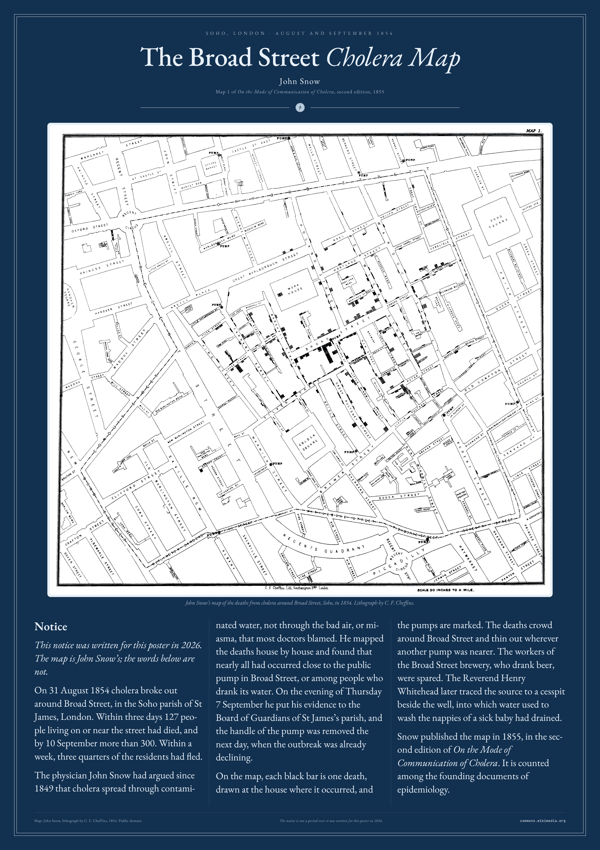
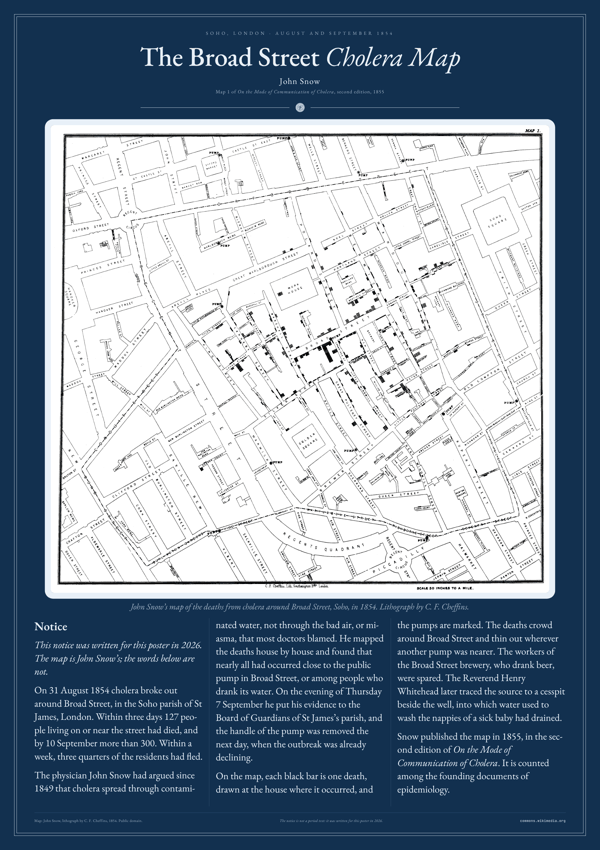
fix(engine): image captions follow the body size, in the hero too
The caption of the hero image had a fixed size of its own, while the
captions of images in the text follow the body. The hero block keeps
its fixed height, so fitting still only moves the text, but the image
inside it is now sized in CSS with container query units: it takes
the room that its caption, set like any other caption, leaves.

Only snow-cholera-map changes: same body sizes, a larger caption and
a slightly smaller map.

diff --git a/engine/template.html b/engine/template.html
@@ -97,10 +97,13 @@ figure.image figcaption{font-size:.85em;font-style:italic;color:var(--mute);marg
 [data-tone=dark] figure.plate img{box-shadow:0 0 0 .6em var(--ink);border-radius:.3em}
 [data-tone=dark] figure.invert img{filter:url(#on-dark-invert)}
 [data-tone=dark] figure.multiply img{filter:url(#on-dark-multiply)}
-/* layout: hero, the first image across the top of the page, at a size fixed in mm */
-.hero{flex:none;display:flex;align-items:center;justify-content:center;font-size:calc(11pt*var(--hs));margin-bottom:6mm}
-.hero figure.image{margin:0}
-.hero figure.image figcaption{font-size:1em;margin-top:4mm}
+/* layout: hero, the first image across the top of the page. The block has a fixed height and
+   the image takes the room its caption leaves; the padding makes room for the plate */
+.hero{flex:none;margin-bottom:6mm}
+.hero figure.image{margin:0;height:100%;display:flex;flex-direction:column}
+.hero .imgbox{flex:1;min-height:0;container-type:size;padding:.6em;display:flex;align-items:center;justify-content:center}
+.hero .imgbox img{width:min(100cqw,100cqh*var(--ar));height:auto}
+.hero figure.image figcaption{margin-top:.3em}
 .item .lbl{color:var(--acc);font-weight:600}
 .item.sub{margin-left:2.2em;font-size:.92em}.item.sub .lbl{font-weight:400}
 code{font-family:'JetBrains Mono',monospace;font-size:.85em}

diff --git a/papers/snow-cholera-map/style.css b/papers/snow-cholera-map/style.css
@@ -1,4 +1,2 @@
 /* A short notice in large type reads better ragged than justified */
 main{text-align:left}
-/* The caption keeps a fixed size, like the whole hero, only larger than the default */
-.hero figure.image figcaption{font-size:1.45em}

diff --git a/engine/build.py b/engine/build.py
@@ -19,7 +19,6 @@ import markdown
 from themes import THEMES, FORMATS, colour, dark
 
 DESIGN_W = 594  # every poster is laid out 594 mm wide, then scaled to the target format
-SIDE = 34      # left and right margin of the page in the template, mm
 MM = 72 / 25.4  # PDF points per mm
 PX = 96 / 25.4  # CSS pixels per mm
 # Without this flag Chromium lays text out with the hinting of the local fontconfig setup,
@@ -110,19 +109,15 @@ def substitute(tpl, values):
     """Fills every {{KEY}} in one pass, so text inserted in the page is never read as a placeholder."""
     return re.sub(r"\{\{(\w+)\}\}", lambda k: str(values[k.group(1)]), tpl)
 
-def hero_html(img, height, share, hs):
-    """The hero image, scaled to fill its share of the page height without passing the margins.
-    Its size is fixed in mm, so that fitting the body size only moves the text."""
-    box = height * share / 100
-    pad = 4 * hs                          # room for the plate drawn around the image on dark themes
-    caption = 15 * hs if img["caption"] else 0  # up to two lines of caption
+def hero_html(img, height, share):
+    """The hero block: a fixed share of the page height, so that fitting the body size only moves
+    the text. Inside it, the image takes the room that its caption leaves (.hero in the template)."""
     if not img["w"]:
         raise BuildError("the hero image must state its size (an SVG needs a viewBox)")
-    k = min((DESIGN_W - 2 * SIDE - 2 * pad) / img["w"], (box - caption - 2 * pad) / img["h"])
     cap = f'<figcaption>{img["caption"]}</figcaption>' if img["caption"] else ""
-    return (f'<div class="hero" style="height:{box:.2f}mm"><figure class="image {img["mode"]}">'
-            f'<img src="{img["src"]}" alt="" style="width:{img["w"] * k:.2f}mm;height:{img["h"] * k:.2f}mm">'
-            f'{cap}</figure></div>')
+    return (f'<div class="hero" style="height:{height * share / 100:.2f}mm"><figure class="image {img["mode"]}">'
+            f'<div class="imgbox"><img src="{img["src"]}" width="{img["w"]}" height="{img["h"]}" alt="" '
+            f'style="--ar:{img["w"] / img["h"]:.5f}"></div>{cap}</figure></div>')
 
 def image_filters(theme):
     """SVG filters for the on_dark modes of images. Chromium drops mix-blend-mode from PDFs, so
@@ -159,7 +154,7 @@ def poster(paper_dir, m):
               "EXTRA_CSS": css.read_text() if css.exists() else "",
               "NM": (ROOT / "node_modules").as_uri()}
     def html(theme, height, fs):
-        top = hero_html(hero, height, m.get("hero_height", 50), m.get("header_scale", 1)) if hero else ""
+        top = hero_html(hero, height, m.get("hero_height", 50)) if hero else ""
         if hero or '<figure class="image ' in body:
             top = image_filters(theme) + top
         return substitute(tpl, {**values, "THEME": THEMES[theme], "THEME_NAME": theme, "HERO": top,
